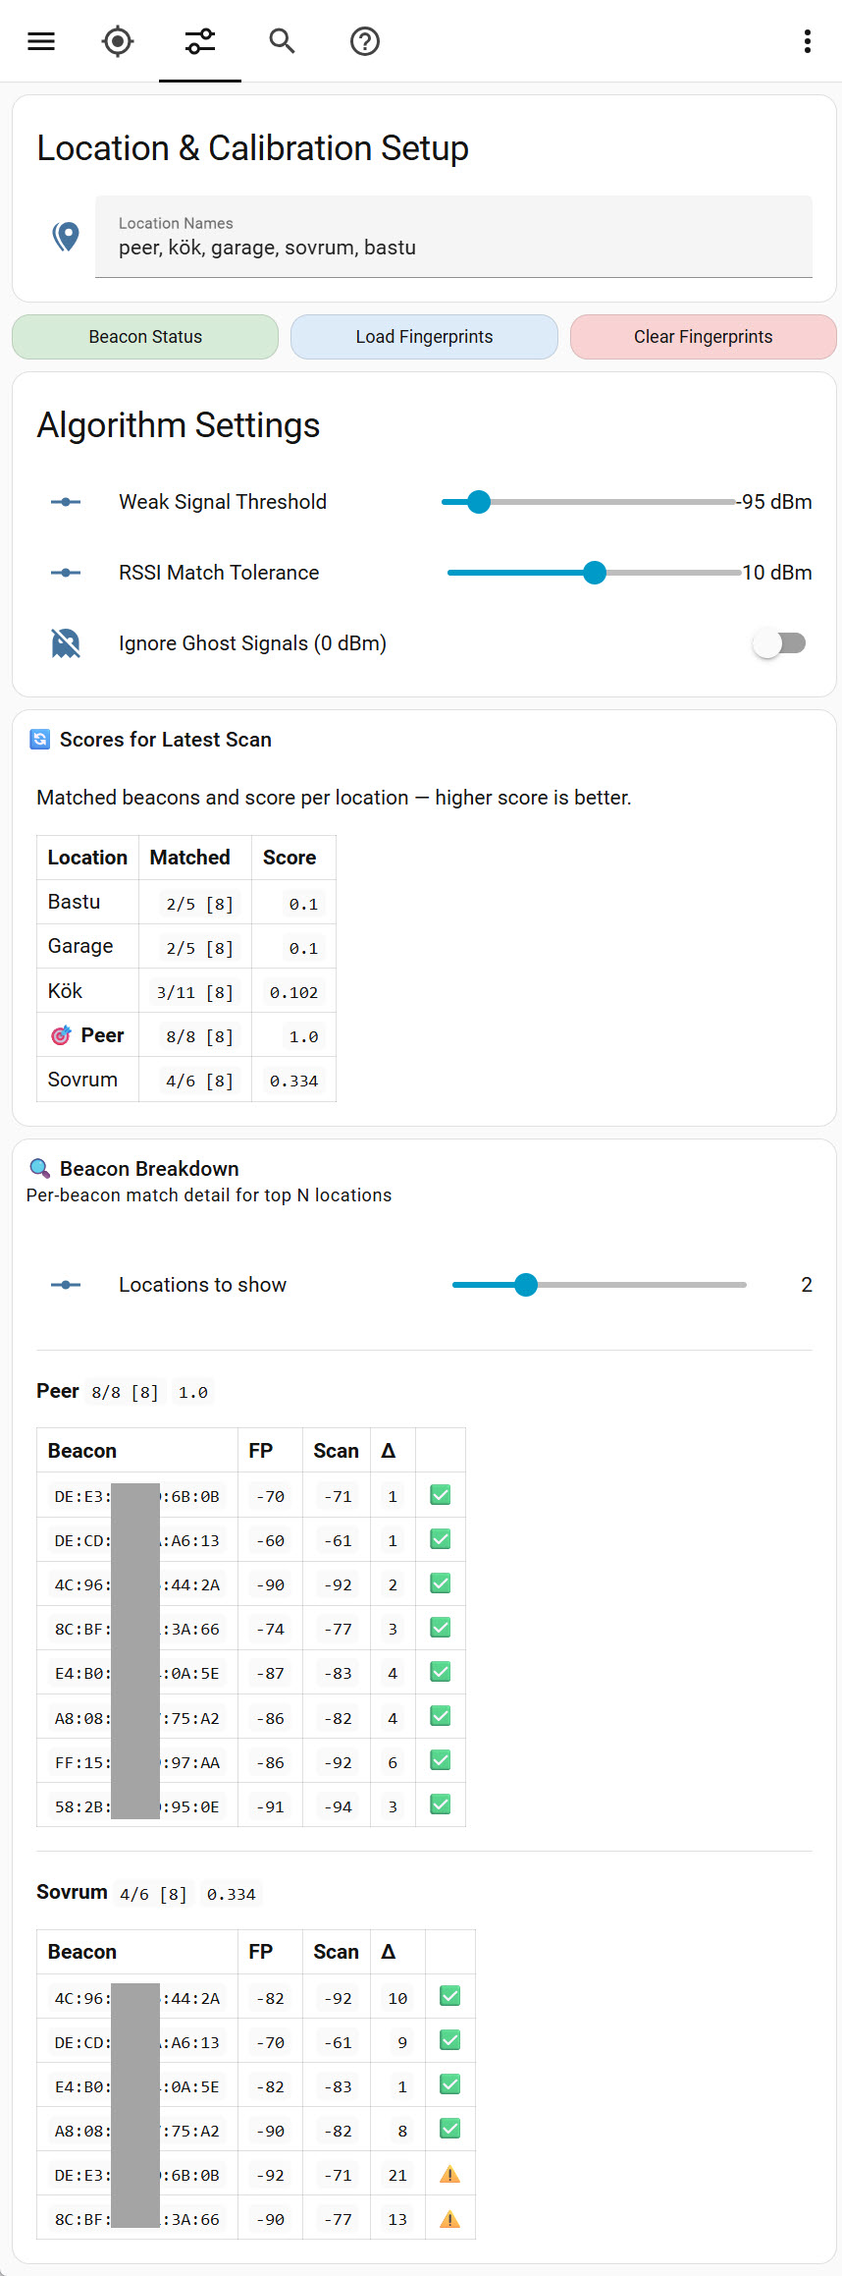
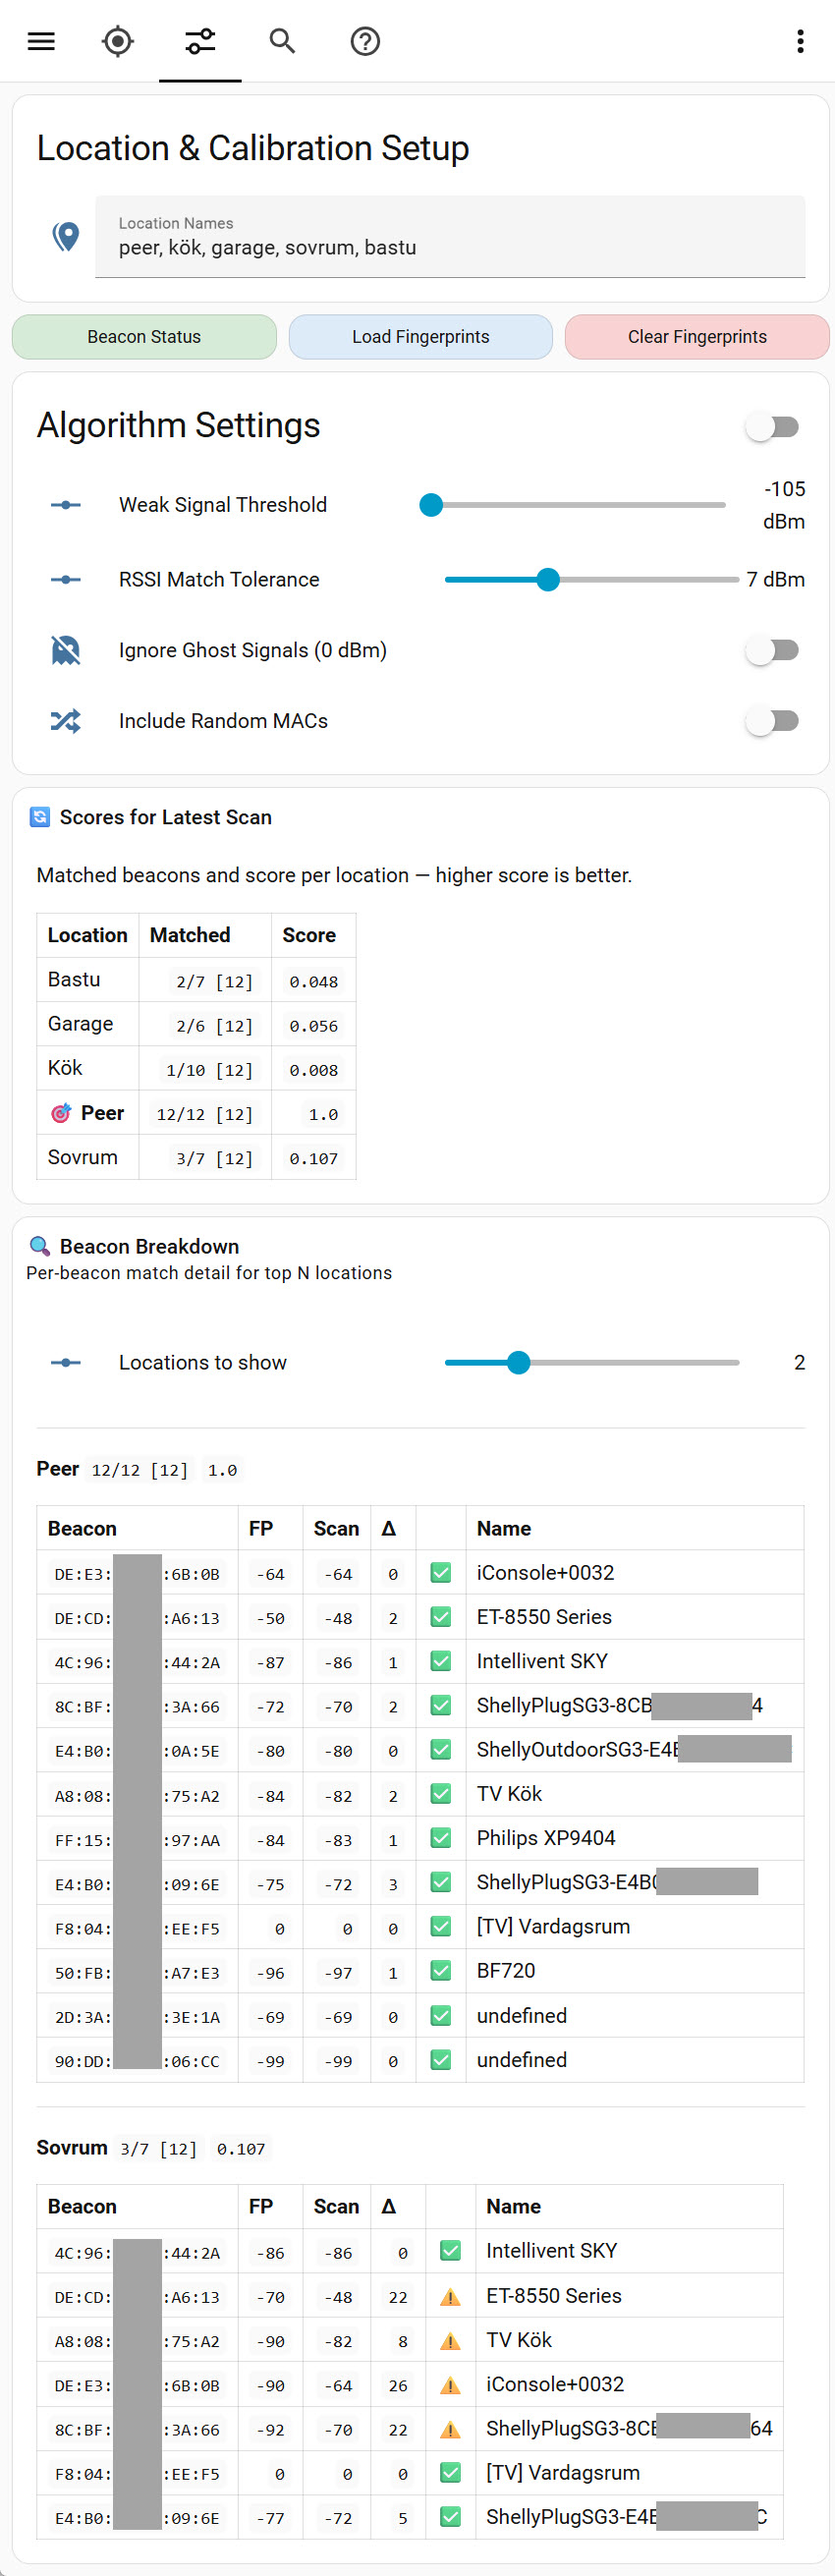
triangulation: random MAC filtering + centralize scan pipeline
Add `bt_include_random_macs` toggle (default OFF) to exclude rotating/
privacy-mode MAC addresses (RPAs — iPhones, Android privacy mode) from
all scan processing. Filtering is applied once at the sensor level
(webhook → sensor.bt_latest_scan_full), eliminating duplication.

- Static Random addresses (0xC0 prefix — Shelly, ESP32, fitness trackers)
  are always kept regardless of the toggle; only truly rotating MACs are
  excluded
- When toggle is ON, rotating MACs appear in amber italic in dashboard
  tables for easy identification
- Automation trigger changed from webhook to sensor state change so the
  already-filtered data flows downstream without re-implementing the logic
- README: new "Random MAC Filtering" section covering MAC type table,
  toggle behaviour, and Static Random address stability caveat

diff --git a/triangulation/README.md b/triangulation/README.md
@@ -513,6 +513,38 @@ The **Ignore Ghost Signals** toggle controls whether 0 dBm beacons are included 
 
 ---
 
+## Random MAC Filtering
+
+Modern Bluetooth devices use different MAC address types depending on their purpose. The first octet of a MAC address encodes the type:
+
+| Type | Top two bits | Behaviour | Examples |
+|---|---|---|---|
+| **Public** | bit-1 = 0 | IEEE-assigned, always stable | Yamaha speakers, most classic BT devices |
+| **Static Random** | `0xC0` | Generated once, never rotates | Shelly BLU, ESP32 sensors, fitness equipment |
+| **Resolvable Private (RPA)** | `0x40` | Rotates ~every 15 minutes | iPhones, Android in privacy mode, Apple Watch |
+| **Non-Resolvable Private** | `0x00` | Rotates constantly | Temporary beacons |
+
+The **Include Random MACs** toggle (in Algorithm Settings) controls whether rotating MACs (RPA + Non-Resolvable) are included in scan processing. The default is OFF — rotating MACs are excluded because:
+- They can never be reliably fingerprinted (MAC changes before the next scan)
+- They add noise to the "Latest BT Scan" table and "All Active Beacons"
+- They contribute nothing useful to location detection
+
+**Static Random addresses are always kept** regardless of the toggle — devices like Shelly BLU and fitness trackers use this format to avoid IEEE registration fees, but their addresses are permanently stable.
+
+When the toggle is ON (include rotating MACs), they appear in amber italic in the dashboard tables so you can identify them.
+
+### Caveat: Static Random Address Stability
+
+Static Random addresses are stable in normal operation, but can change if a device is factory-reset or loses power in specific circumstances. This is rare for mains-powered devices. If it happens:
+
+- The old MAC will appear as a missing beacon in fingerprints (score drops)
+- The new MAC appears as an unknown device in scans
+- **Fix:** Recapture fingerprints for the affected locations
+
+If a specific device proves persistently volatile, globally ignore it rather than relying on its MAC being stable. In practice, most static random devices in a home environment (Shelly, fitness equipment) retain their address indefinitely.
+
+---
+
 ## Setup Workflow: Capturing Fingerprints
 
 ### Step 1: Configure Location Names
@@ -603,7 +635,7 @@ The main working view for capturing and curating location fingerprints. Place yo
 <img src="docs/triangulation.jpg" width="20%" alt="Triangulation View">
 
 **What you see:**
-- **Latest BT Scan** — Bluetooth devices detected in the most recent scan with RSSI values and device names
+- **Latest BT Scan** — Bluetooth devices detected in the most recent scan with RSSI values and device names. Rotating/privacy-mode MACs (iPhones, Android privacy mode) are shown in amber italic when the "Include Random MACs" toggle is ON; with the toggle OFF (default) they are excluded entirely and do not appear.
 - **Fingerprint Details** — Captured beacon signatures for each location, showing which beacons are active vs ignored and how they match the latest scan
 - **Beacon management** — Ignore or remove beacons per location, or mark them globally ignored across all locations
 
@@ -628,6 +660,7 @@ The main working view for capturing and curating location fingerprints. Place yo
    - **Weak Signal Threshold** — Exclude very weak beacons that are unreliable (lower = stricter; higher = more lenient)
    - **RSSI Match Tolerance** — How closely scan signal strength must match fingerprint (lower = stricter matching; higher = more forgiving of signal variance)
    - **Ignore Ghost Signals (0 dBm)** — Toggle controls whether 0 dBm beacons are included during fingerprint capture. ON = ignore (recommended), OFF = capture
+   - **Include Random MACs** — Toggle controls whether rotating/privacy-mode MAC addresses are included in scan processing. OFF (default) = exclude rotating MACs (iPhones, Android privacy mode) — they won't appear in Latest BT Scan or All Active Beacons. ON = include all MACs; rotating MACs appear in amber italic so they can be identified. See "Random MAC Filtering" section for details.
 
 **Goal:** The expected location should have high scores with clear separation to others (e.g., 0.85 vs 0.62 shows good distinction). If scores are similar across locations, refine your fingerprints by managing overlapping beacons.
 
@@ -639,7 +672,7 @@ The main working view for capturing and curating location fingerprints. Place yo
 
 **What you see:**
 - **Location Cross-Reference Matrix** — Scores each location's fingerprint against every other location to identify which pairs are confused (high scores = similar beacons = ambiguity risk)
-- **All Active Beacons** — Complete list of beacons across all locations with indicators showing where each beacon appears; color-coded by discriminator quality: 🟢 green = strong discriminator (RSSI differs well across locations), 🔴 red = weak discriminator (similar RSSI in all locations — ambiguous), no color = neutral
+- **All Active Beacons** — Complete list of beacons across all locations with indicators showing where each beacon appears; color-coded by discriminator quality: 🟢 green = strong discriminator (RSSI differs well across locations), 🔴 red = weak discriminator (similar RSSI in all locations — ambiguous), no color = neutral. Beacons with rotating/privacy-mode MACs are shown in amber italic when the "Include Random MACs" toggle is ON.
 - **Globally Ignored Beacons** — Centralized view of all beacons marked as globally ignored with quick toggle to restore them
 
 **Use this to:** Identify overlapping beacons (appearing in multiple locations with similar RSSI), detect location pairs that might confuse the algorithm, and manage global beacon ignores.
